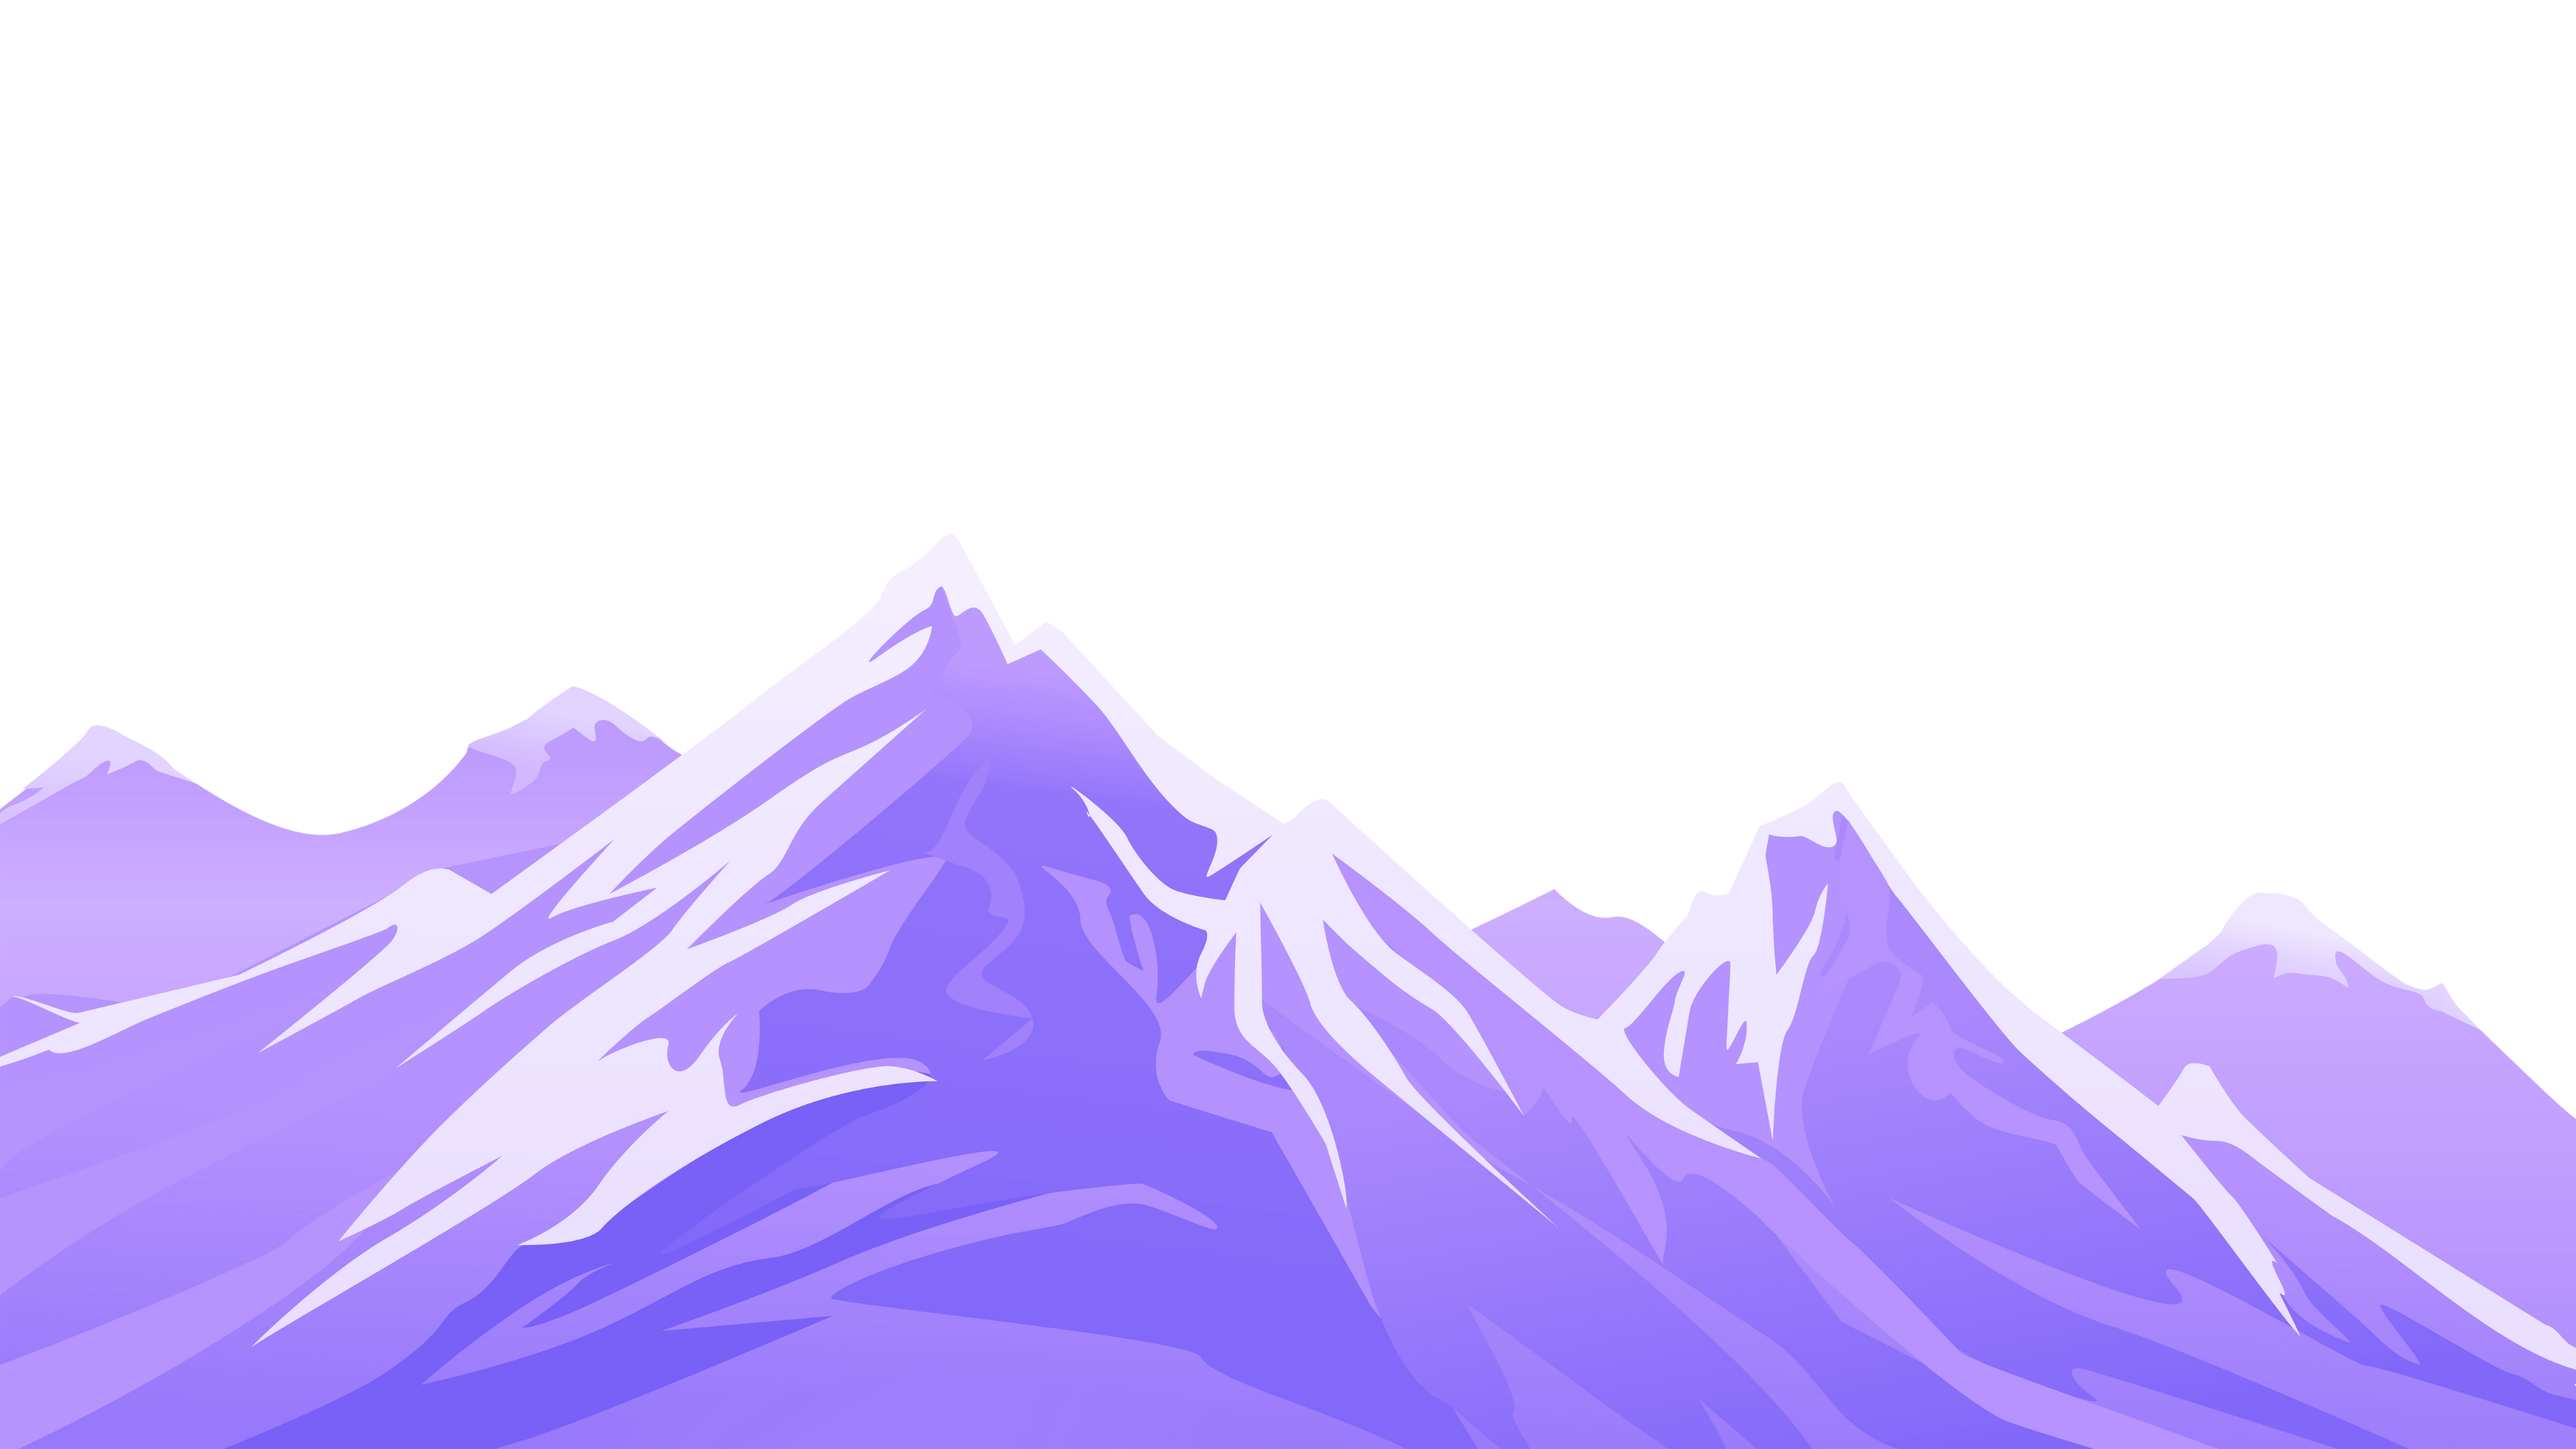
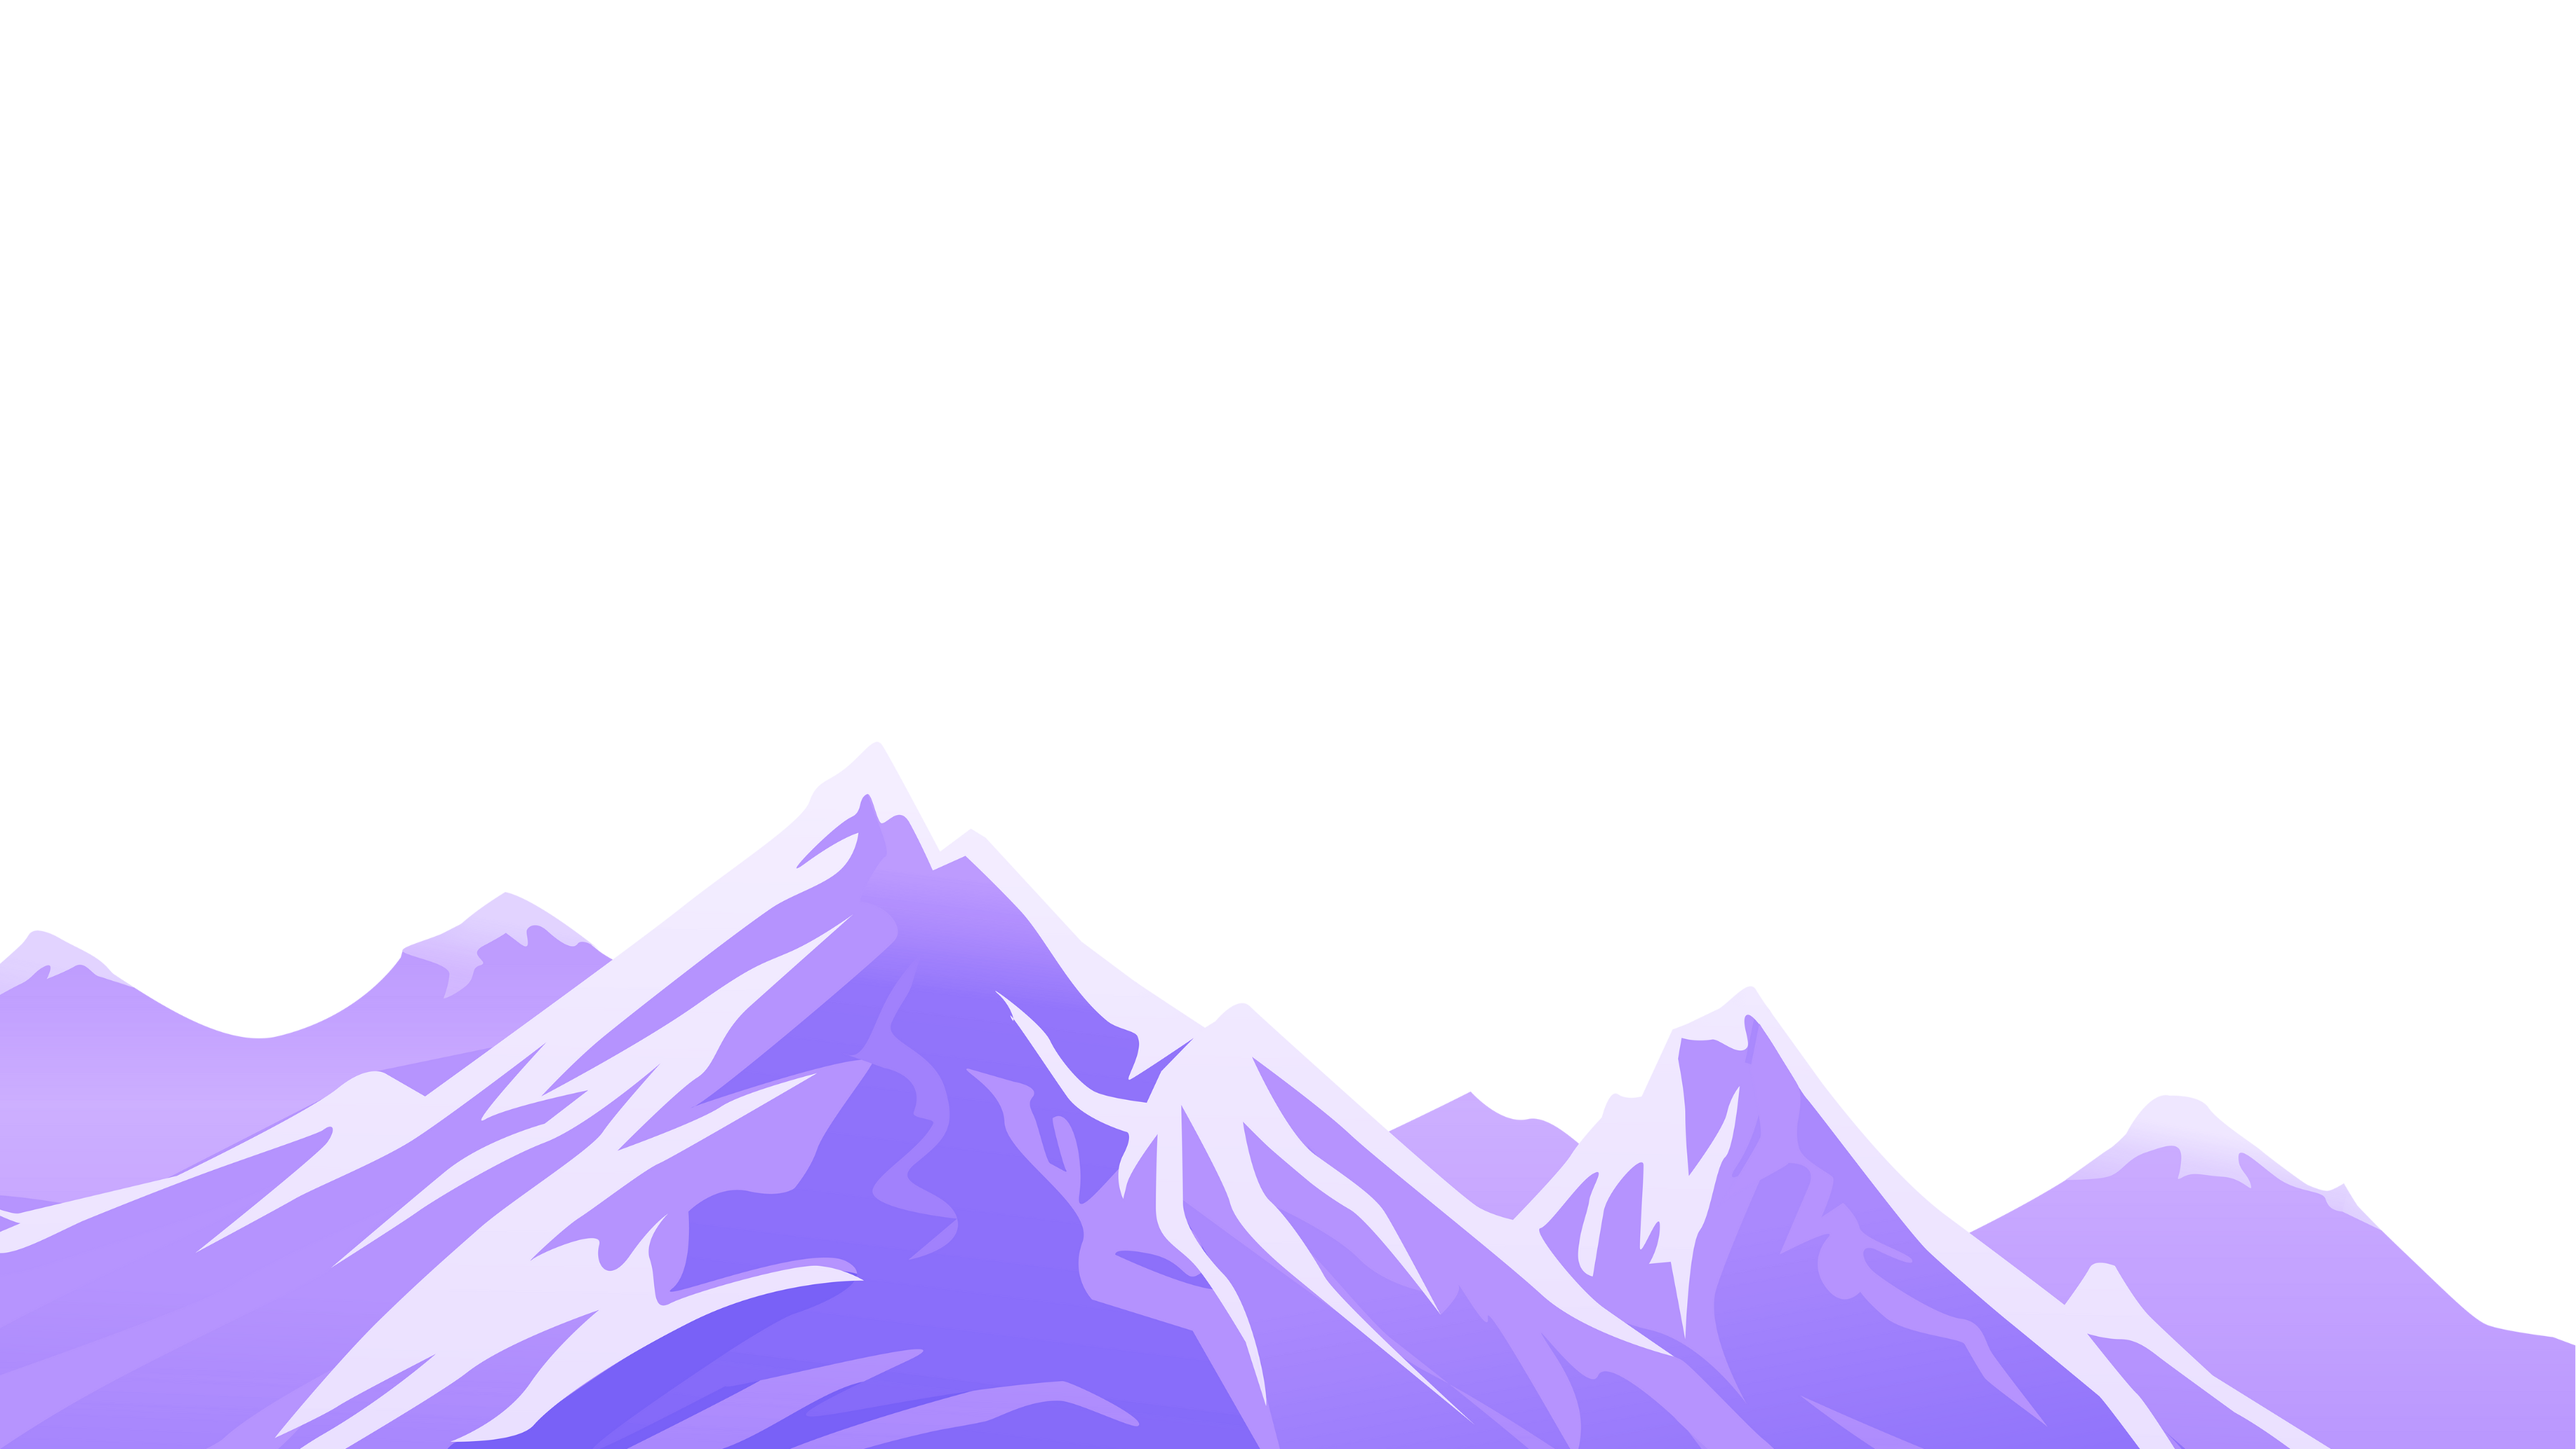
images adjusted

Changed region(s): [[0.0, 0.4044, 1.0, 1.0]]

diff --git a/index.html b/index.html
@@ -19,8 +19,9 @@
     <section>
         <img src="./stars.png" id="stars">
         <img src="./moon.png" id="moon">
-        <img src="./foreground.png" id="foreground">
         <img src="./background.png" id="background">
+        <img src="./foreground.png" id="foreground">
+        
     </section>
 
 

diff --git a/style.css b/style.css
@@ -64,6 +64,26 @@ header ul li a.active
 }
 
 
+section
+{
+    position: relative;
+    width: 100%;
+    height: 100vh;
+    padding: 100px;
+}
+
+section img
+{
+    position: absolute;
+    top: 0;
+    left: 0;
+    width: 100%;
+    height: 100%;
+    object-fit: cover;
+}
+
+
+
 
 
 
